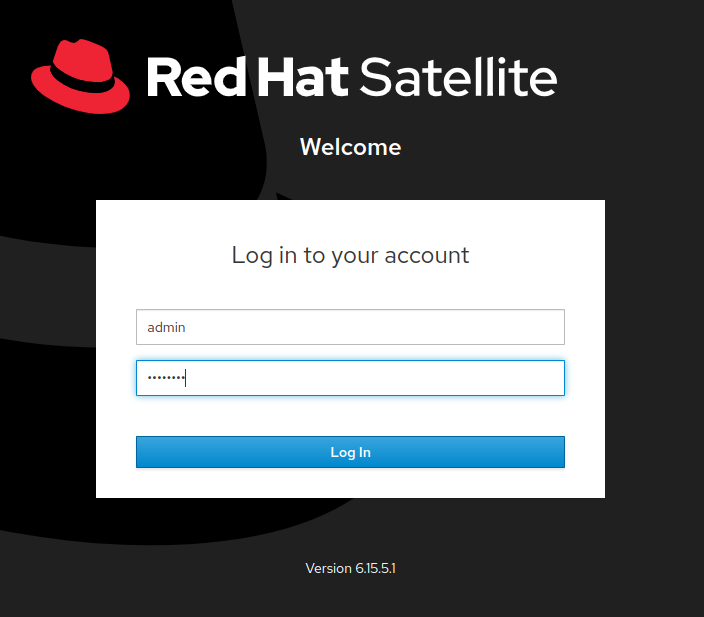
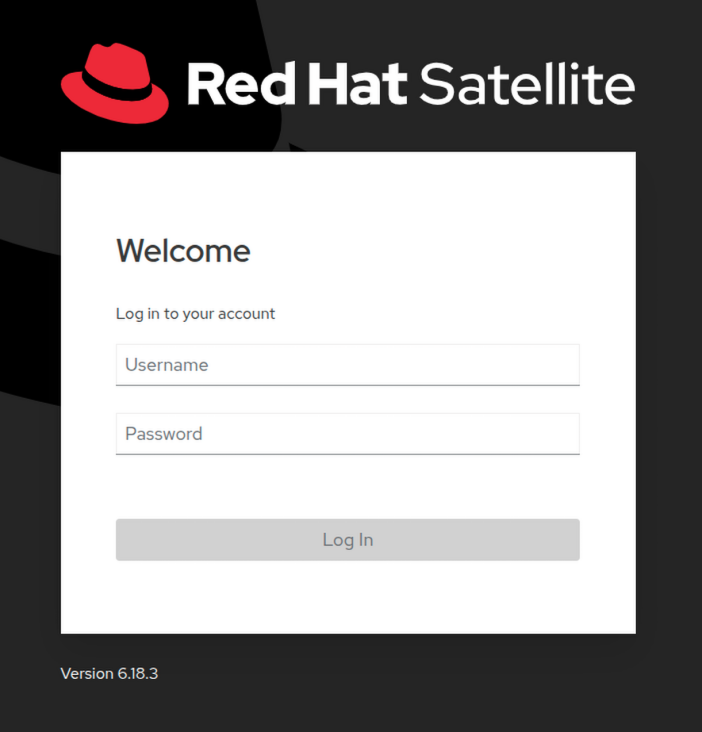
Updates to reflect moving from Satellite 6.15 to Satellite 6.18

diff --git a/exercises/rhdp_auto_satellite/1-compliance/README.md b/exercises/rhdp_auto_satellite/1-compliance/README.md
@@ -184,7 +184,7 @@ This step will allow us to scan a single RHEL 7 host with the ```PCI_Compliance`
 
 #### 6\. Navigate back to Satellite to examine the Asset Reporting File (ARF).
 
--   Switch to the browser tab with the Satellite UI and hover over 'Hosts' from the side pane menu and then click on 'Reports'.
+-   Switch to the browser tab with the Satellite UI and click on the 'Hosts' dropdown menu pane on the left, then click on the 'Compliance' dropdown, followed by clicking on 'Reports'.
 
 ![aap_arf](images/1-compliance-aap2-Satellite_ARF.png)
 
@@ -270,7 +270,7 @@ This step will expand our OpenSCAP policy scan to add another XCCDF compliance p
 
 #### 8\. Navigate back to Satellite to examine the Asset Reporting File (ARF).
 
--   Switch to the browser tab with the Satellite UI and hover over "Hosts" from the menu on the left side of the screen, and then click on "Reports".
+-   Switch to the browser tab with the Satellite UI and click on the 'Hosts' dropdown menu pane on the left, then click on the 'Compliance' dropdown, followed by clicking on 'Reports'.
 
 -   Notice that we've now easily scaled to six policy scans, with each node being scanned for the ```PCI_Compliance``` policy and for ```STIG_Compliance``` policy.
 
